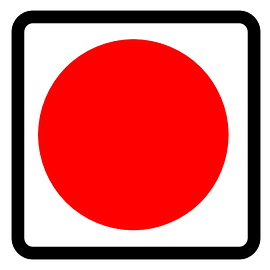
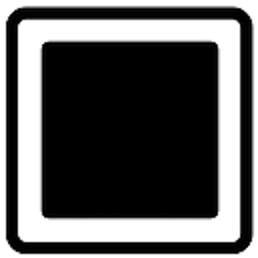
added button colors, changed stop image

diff --git a/main.py b/main.py
@@ -214,23 +214,26 @@ class ApplicationStateData(object):
         # don't need to store some of these things twice - can just access them directly from the widget
     
     def setSolveMode(self):
+        # updates state to solve mode
+        # also deals with mode button appearance
         self.currentAlgorithm.set(
             stateData.solveAlgorithms[stateData.currSolAlg])
         algCombobox['values'] = stateData.solveAlgorithms
         self.solgenButtonText.set('Solve')
         self.mode = 'sol'
-        # extend!!!
-        # updates state to solve mode
-        # also deals with mode button appearance
+        makeButStyleBlue("Solve.TButton")
+        makeButStyleDefault("Generate.TButton")
     
     def setGenerateMode(self):
+        # updates state to generate mode
+        # also deals with mode button appearance
         self.currentAlgorithm.set(
             stateData.genAlgorithms[stateData.currGenAlg])
         algCombobox['values'] = stateData.genAlgorithms
         self.solgenButtonText.set('Generate')
         self.mode = 'gen'
-        # updates state to generate mode
-        # also deals with mode button appearance
+        makeButStyleBlue("Generate.TButton")
+        makeButStyleDefault("Solve.TButton")
 
     def algorithmChanged(self, e):
         algCombobox.selection_clear()
@@ -429,6 +432,13 @@ The nature of DFS is such that the order in which the neighbors of nodes are exa
 
             for cb in cbs: cb.bind("<<ComboboxSelected>>", createCBCallback(cb))
 
+            settingsFrame.rowconfigure(0, weight=1)
+            settingsFrame.rowconfigure(1, weight=1)
+            settingsFrame.columnconfigure(0, weight=1)
+            settingsFrame.columnconfigure(1, weight=1)
+            settingsFrame.columnconfigure(2, weight=1)
+            settingsFrame.columnconfigure(3, weight=1)
+
         elif alg == 'BFS':
             infoIntroLabel.config(text="""\
 Breadth-first search, or BFS, is a graph pathfinding algorithm that is not guaranteed to give an optimal solution.""")
@@ -488,7 +498,7 @@ A* (pronounced 'ay-star') is a graph pathfinding algorithm that is always guaran
             infoLabel.config(text="""\
 Like in DFS and BFS, neighboring nodes are examined beginning with the start node until the end node is reached. As each node is examined, however, data that describes the path taken to get there from the start node is retained. Using this data, each node's 'f-cost' is calculated, which is the sum of the distance traveled to get there (the node's 'g-cost') and the distance from there to the end node (the node's 'h-cost'). The node with the lowest f-cost is always examined next, which always results in the shortest possible path from start to finish. Consult a search engine for a simpler or more in-depth explanation.
 
-A* is guaranteed to be optimal, but it is not as memory-efficient as DFS or BFS, since lots of extra data must be stored for each node (its parent node, g-cost, h-cost, and f-cost). Despite this, a shortest possible path will always be found (there may be multiple). You can choose to display additional data about each node as the algorithm runs below:""")
+A* is guaranteed to be optimal, but it is not as memory-efficient as DFS or BFS, since lots of extra data must be stored for each node (its parent node, g-cost, h-cost, and f-cost). Despite this, a shortest possible path will always be found (there may be multiple). There are no options associated with this algorithm.""")
 
             # add extra settings here for A*
 
@@ -514,9 +524,9 @@ A* is guaranteed to be optimal, but it is not as memory-efficient as DFS or BFS,
             if stateData.mode == 'sol' else stateData.genAlgorithms
         localAlgCombobox.state(["readonly"])
         infoLabelFrame = ttk.Labelframe(algRoot, text='Info')
-        infoIntroLabel = ttk.Label(infoLabelFrame, font=largerFont,
+        infoIntroLabel = ttk.Label(infoLabelFrame, font=hugeFont,
                                     style='InfoLabel.TLabel')
-        infoLabel = ttk.Label(infoLabelFrame, style='InfoLabel.TLabel')
+        infoLabel = ttk.Label(infoLabelFrame, font=largerFont, style='InfoLabel.TLabel')
         settingsFrame = ttk.Frame(algRoot, relief='sunken')
         okayButton = ttk.Button(algRoot, text='Okay', command=lambda:
             self.applyAlgSettings(algRoot, tempAlg.get()))
@@ -549,20 +559,8 @@ A* is guaranteed to be optimal, but it is not as memory-efficient as DFS or BFS,
         infoLabelFrame.rowconfigure(1, weight=50)
         infoLabelFrame.columnconfigure(0, weight=1)
 
-        # position in same location as root TODO center - simple!
-        algRoot.update_idletasks()
-        algGeom = algRoot.geometry()
-        algGeom = algGeom[:algGeom.find('+')]
-        rootGeom = root.geometry()
-        a = rootGeom.find('+')
-        b = rootGeom.find('-')
-        if b == -1:
-            rootGeom = rootGeom[a:]
-        elif a == -1:
-            rootGeom = rootGeom[b:]
-        else:
-            rootGeom = rootGeom[a:] if a < b else rootGeom[b:]
-        algRoot.geometry(algGeom + rootGeom)
+        # position in same location as root
+        algRoot.geometry(root.geometry())
     
     def configAnimButtonPushed(self):
         print('opening configAlg window')
@@ -687,13 +685,13 @@ class MazeData(object):
                                 cData.margin + (sr*cData.cell_h),
                                 cData.margin + ((1+sc)*cData.cell_w),
                                 cData.margin + ((1+sr)*cData.cell_h),
-                                fill='#85f781',
+                                fill=lightGreenColor,
                                 width=0)
         canvas.create_rectangle(cData.margin + (ec*cData.cell_w),
                                 cData.margin + (er*cData.cell_h),
                                 cData.margin + ((1+ec)*cData.cell_w),
                                 cData.margin + ((1+er)*cData.cell_h),
-                                fill='#81f7eb',
+                                fill=lightBlueColor,
                                 width=0)
         if sr == 0:
             canvas.create_text(cData.margin + ((sc + 0.5)*cData.cell_w),
@@ -725,14 +723,14 @@ class MazeData(object):
                                anchor='center',
                                text='END',
                                font=('Courier %d bold' % (cData.cell_w // 4)),
-                               fill='#5cb5ac')
+                               fill='#84afc4')
         elif er == self.rows - 1:
             canvas.create_text(cData.margin + ((ec + 0.5)*cData.cell_w),
                                cData.h - (2 * cData.margin // 3),
                                anchor='center',
                                text='END',
                                font=('Courier %d bold' % (cData.cell_w // 4)),
-                               fill='#5cb5ac')
+                               fill='#84afc4')
         else:
             word = 'END'
             for i in range(3):
@@ -741,7 +739,7 @@ class MazeData(object):
                                    anchor='center',
                                    text=word[i],
                                    font='Courier %d bold' % (cData.cell_h // 4),
-                                   fill='#5cb5ac')
+                                   fill='#84afc4')
 
     def drawBoundaries(self):
         canvas.create_line(cData.margin, cData.margin,
@@ -1428,15 +1426,8 @@ class MazeData(object):
         # MAKE IT SO THEY JUST CAN'T BE PUT ON THE SAME SQUARE (text would overlap)
         
     def clearMaze(self):
-        if (stateData.mode == 'sol'):
-            self.boundaries = set()
-        else:
-            pass
-            # TODO add support for clearing solve line in generate mode
-        self.drawMaze()  
-        # to be called when Clear Maze button is pressed
-        # updates MazeData object, clearing boundaries/solve line,
-        # depending on what mode it's in
+        self.boundaries = set()
+        self.drawMaze()
 
 class CanvasData(object):
     def __init__(self, resizeRedrawDelay, startWidth, startHeight):
@@ -1640,6 +1631,8 @@ defaultBounds = set([7, -22, -20, 14, 15, 16, -15,
                     -16, -13, -11, -9, -7, -6, -1])
 redrawDelay = 1
 
+
+# handle styling
 pauseImage = PhotoImage(file='images/pause.png')
 playImage = PhotoImage(file='images/start.png')
 stopImage = PhotoImage(file='images/stop.png')
@@ -1652,12 +1645,38 @@ arrowImage = arrowImage.subsample(10, 10)
 defFont = font.nametofont('TkDefaultFont')
 defFont['size'] += 2
 largerFont = font.Font(family=defFont['family'],
-                        name='largerFont', size=(defFont['size']+5))
+                        name='largerFont', size=(defFont['size']+0))
+hugeFont = font.Font(family=defFont['family'],
+                     name='hugeFont', size=(defFont['size']+5))
 
 s = ttk.Style()
+s.theme_use('clam')
 s.configure('OptionsButton.TButton', wraplength=80,
                 justify='center', padding=5)
-s.configure('InfoLabel.TLabel', wraplength=500)
+s.configure('InfoLabel.TLabel', wraplength=1065)
+
+butDefaultColor = "#c7c5c1"
+butDefaultPress = rgbString(186, 181, 171)
+butDefaultHover = rgbString(238, 235, 231)
+lightGreenColor = "#a7d4a5"
+lightGreenHover = "#bedebd"
+lightGreenPress = "#85a883"
+lightBlueColor = "#b0c8d4"
+lightBlueHover = "#cae1ed"
+lightBluePress = "#90a5b0"
+def makeButStyleDefault(butStyle):
+    s.configure(butStyle, background=butDefaultColor)
+    s.map(butStyle, background=[("pressed", butDefaultPress), ("active", butDefaultHover)])
+def makeButStyleBlue(butStyle):
+    s.configure(butStyle, background=lightBlueColor)
+    s.map(butStyle, background=[("pressed", lightBluePress), ("active", lightBlueHover)])
+def makeButStyleGreen(butStyle):
+    s.configure(butStyle, background=lightGreenColor)
+    s.map(butStyle, background=[("pressed", lightGreenPress), ("active", lightGreenHover)])
+
+s.configure("TButton", background=butDefaultColor)
+makeButStyleBlue("Solve.TButton")
+makeButStyleGreen("Main.TButton")
 
 # create the object instances that will store all the data
 mData = MazeData(defaultRows, defaultCols, defaultBounds,
@@ -1672,8 +1691,10 @@ mainframe = ttk.Frame(root, relief='ridge', borderwidth=10)
 modeButtonsFrame = ttk.Frame(mainframe, relief='sunken', borderwidth=5)
 solveModeButton = ttk.Button(modeButtonsFrame, text='Solve Mode', width=30,
                             command=stateData.setSolveMode)
+solveModeButton["style"] = "Solve.TButton"
 genModeButton = ttk.Button(modeButtonsFrame, text='Generate Mode', width=30,
                         command=stateData.setGenerateMode)
+genModeButton["style"] = "Generate.TButton"
 
 genControlsFrame = ttk.Frame(mainframe, relief='sunken', borderwidth=5)
 clearButton = ttk.Button(genControlsFrame, text='Clear Maze',
@@ -1705,7 +1726,7 @@ solgenFrame = ttk.Frame(mainframe)
 solgenButton = ttk.Button(solgenFrame, 
                             textvariable=stateData.solgenButtonText,
                             command=stateData.startAnimateMode,
-                            default='active')
+                            default='active', style="Main.TButton")
 pausePlayButton = ttk.Button(solgenFrame, image=pauseImage,
                              command=stateData.pauseAnimation)
 arrowButton = ttk.Button(solgenFrame, image=arrowImage)     # TODO set callback
@@ -1850,7 +1871,7 @@ root.bind('<<ComboboxSelected>>', stateData.algorithmChanged)
 root.bind('<Control-w>', lambda e: root.destroy())
 
 root.update_idletasks()
-root.geometry('1000x600+200+200')
+root.geometry('1100x600+200+200')
 
 root.mainloop()
 print('application closed')
